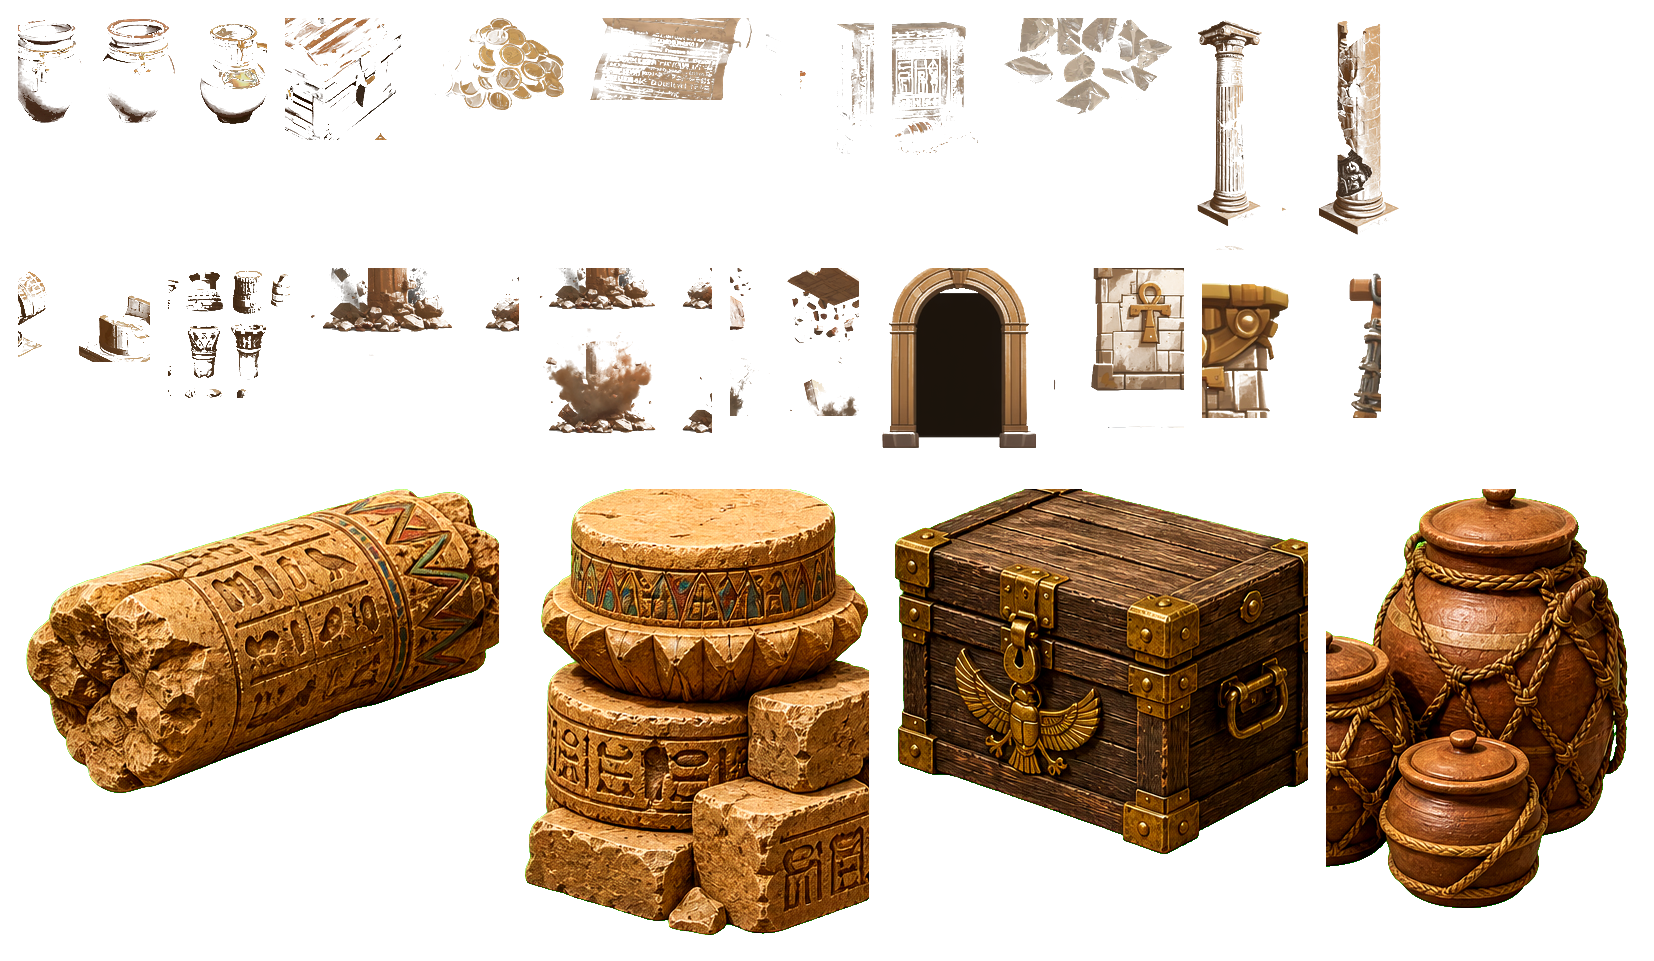
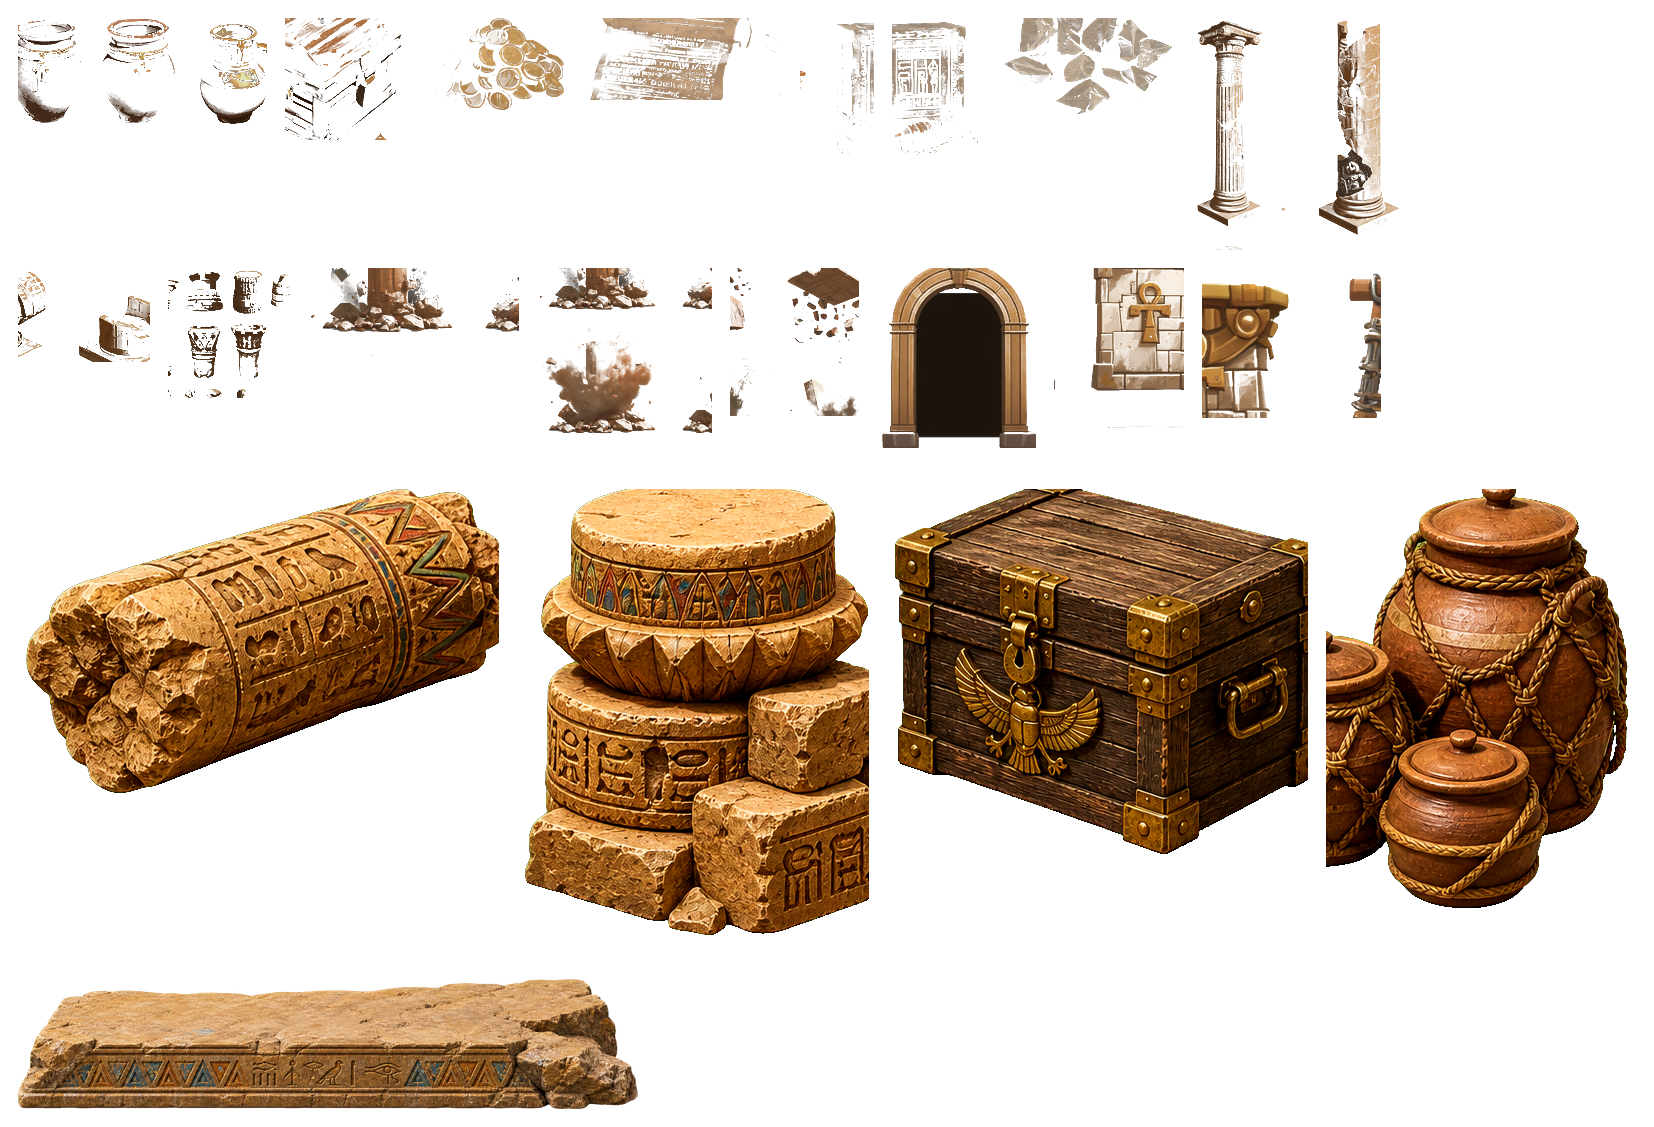
Add desert entry threshold prop

diff --git a/src/components/expedition-journey/journeySecrets.test.js b/src/components/expedition-journey/journeySecrets.test.js
@@ -920,12 +920,13 @@ test('route props stay out of the opening pyramid facade and render on route edg
   const storyProps = extractExportedArray('STORY_PROPS');
 
   [
+    'desert-entry-premium-threshold-slab-1',
     'desert-entry-premium-column-1',
     'desert-entry-premium-pillar-caps-1',
   ].forEach((id) => {
     const escapedId = id.replace(/[.*+?^${}()|[\]\\]/g, '\\$&');
     const row = getDataRowById(storyProps, id);
-    assert.match(row, /x:\s*(11[3-9]\d|12\d\d|13\d\d|14\d\d)/, `${id} should be after the pyramid facade`);
+    assert.match(row, /x:\s*(9[4-9]\d|10\d\d|11\d\d|12\d\d|13\d\d|14\d\d)/, `${id} should be after the pyramid facade`);
     assert.match(row, /depth:\s*'route-edge'/, `${id} should render above the route edge`);
     assert.doesNotMatch(storyProps, new RegExp(`id:\\s*'${escapedId}'[^}]*?depth:\\s*'(background|midground)'`));
   });
@@ -1847,7 +1848,7 @@ test('Egypt atmosphere prop pack is registered and drawn through existing story 
   const storyProps = extractExportedArray('STORY_PROPS');
 
   assert.equal(egyptAtmosphereAtlas.image, 'egypt-atmosphere-pack.png');
-  assert.match(egyptAtmosphereAtlas.source, /Generated premium Desert Entry props plus curated atmosphere pass 2026-05-24/);
+  assert.match(egyptAtmosphereAtlas.source, /Generated premium Desert Entry props plus curated atmosphere pass 2026-05-25/);
   [
     'supplyJars',
     'fieldChest',
@@ -1868,6 +1869,7 @@ test('Egypt atmosphere prop pack is registered and drawn through existing story 
     'desertEntryPremiumPillarCaps',
     'desertEntryPremiumFieldChest',
     'desertEntryPremiumStorageJars',
+    'desertEntryPremiumThresholdSlab',
   ].forEach((key) => {
     assert.ok(egyptAtmosphereAtlas.regions[key], `${key} should exist in the generated premium prop atlas`);
     assert.match(journeyRenderAssetsSource, new RegExp(`'${key}'`));
@@ -1875,6 +1877,7 @@ test('Egypt atmosphere prop pack is registered and drawn through existing story 
   [
     'desertEntryPremiumFallenColumn',
     'desertEntryPremiumPillarCaps',
+    'desertEntryPremiumThresholdSlab',
   ].forEach((key) => {
     assert.match(storyProps, new RegExp(`atmosphereAssetKey:\\s*'${key}'`));
   });
@@ -1913,6 +1916,7 @@ test('Egypt atmosphere layout fills each Journey section without changing gamepl
   });
 
   [
+    'desert-entry-premium-threshold-slab-1',
     'desert-entry-premium-column-1',
     'desert-entry-premium-pillar-caps-1',
     'atmosphere-temple-fallen-stone',
@@ -2001,6 +2005,7 @@ test('desert entry props use visible atlas art instead of weak placeholders', ()
   });
 
   [
+    ['desert-entry-premium-threshold-slab-1', 'desertEntryPremiumThresholdSlab', 'route-edge', 'alpha:\\s*1'],
     ['desert-entry-premium-column-1', 'desertEntryPremiumFallenColumn', 'route-edge', 'alpha:\\s*1'],
     ['desert-entry-premium-pillar-caps-1', 'desertEntryPremiumPillarCaps', 'route-edge', 'alpha:\\s*1'],
   ].forEach(([propId, assetKey, depth, alphaPattern]) => {
@@ -2008,7 +2013,7 @@ test('desert entry props use visible atlas art instead of weak placeholders', ()
     assert.match(row, new RegExp(`atmosphereAssetKey:\\s*'${assetKey}'`), `${propId} should use atlas art`);
     assert.match(row, new RegExp(`depth:\\s*'${depth}'`), `${propId} should render in the readable prop layer`);
     assert.match(row, new RegExp(alphaPattern), `${propId} should have enough alpha to read against the painted background`);
-    assert.match(row, /x:\s*(11[3-9]\d|12\d\d|13\d\d|14\d\d)/, `${propId} should sit in the open route after the pyramid`);
+    assert.match(row, /x:\s*(9[4-9]\d|10\d\d|11\d\d|12\d\d|13\d\d|14\d\d)/, `${propId} should sit in the open route after the pyramid`);
   });
 
   assert.doesNotMatch(storyProps, /sectionId:\s*'desert-entry'[\s\S]{0,220}type:\s*'sign'/);

diff --git a/src/components/expedition-journey/journeyLevelData.js b/src/components/expedition-journey/journeyLevelData.js
@@ -960,6 +960,7 @@ export const STORY_PROPS = [
   { id: 'early-scarab-seal', sectionId: 'desert-entry', type: 'guardian-seal', x: 925, y: JY(-164), label: 'Sacred Scarab Seal opening warning trigger' },
   { id: 'desert-boundary-marker', sectionId: 'desert-entry', type: 'guardian-seal', x: X(650), y: JY(312), label: 'ancient boundary seal' },
   { id: 'forgotten-mural-climb-structure', sectionId: 'desert-entry', type: 'generated-climb-structure', x: X(915), y: JY(-272), width: 1420, height: 690, depth: 'route-edge', alpha: 1, label: 'generated Forgotten Mural Alcove climb structure with broken stairs, carved ledges, and damaged Anubis mural' },
+  { id: 'desert-entry-premium-threshold-slab-1', sectionId: 'desert-entry', type: 'atmosphere-prop', atmosphereAssetKey: 'desertEntryPremiumThresholdSlab', x: 965, y: JY(322), width: 158, height: 43, yOffset: 10, alpha: 1, depth: 'route-edge', tint: 'buried-stone', shadow: 0.2, dust: 0.22, bury: 0.02, label: 'generated premium carved threshold slab before the broken ruins route' },
   { id: 'desert-entry-premium-column-1', sectionId: 'desert-entry', type: 'atmosphere-prop', atmosphereAssetKey: 'desertEntryPremiumFallenColumn', x: 1320, y: JY(322), width: 168, height: 108, yOffset: 10, alpha: 1, depth: 'route-edge', tint: 'buried-stone', shadow: 0.28, dust: 0.16, bury: 0, label: 'generated premium carved fallen column in open sand after the pyramid' },
   { id: 'desert-entry-premium-pillar-caps-1', sectionId: 'desert-entry', type: 'atmosphere-prop', atmosphereAssetKey: 'desertEntryPremiumPillarCaps', x: 1468, y: JY(318), width: 118, height: 152, yOffset: 12, alpha: 1, depth: 'route-edge', tint: 'buried-stone', shadow: 0.3, dust: 0.18, bury: 0, label: 'generated premium pillar-cap ruins in open sand after the pyramid' },
   { id: 'temple-entry-flag', sectionId: 'ruined-temple', type: 'sign', x: X(1605), y: JY(306), label: 'entry survey marker' },

diff --git a/src/components/expedition-journey/journeyRenderAssets.js b/src/components/expedition-journey/journeyRenderAssets.js
@@ -87,6 +87,7 @@ export const EXPECTED_EGYPT_ATMOSPHERE_ASSET_KEYS = [
   'desertEntryPremiumPillarCaps',
   'desertEntryPremiumFieldChest',
   'desertEntryPremiumStorageJars',
+  'desertEntryPremiumThresholdSlab',
   'rubbleDustSmall',
   'rubbleDustBurst',
   'fallingDebris',
